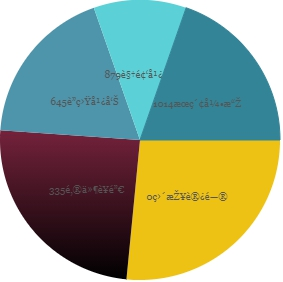
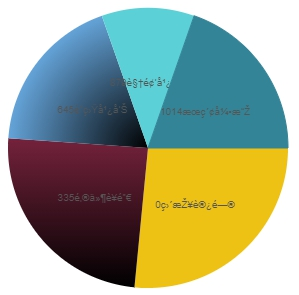
[document] update basic pie

diff --git a/README.md b/README.md
@@ -250,7 +250,7 @@
 			data: [
                 {value: 335, name: '直接访问'},
                 {value: 310, name: '邮件营销', linearGradient:[{position:0,color:"#000000"},{position:1,color:"#d9406f"}]},
-                {value: 234, name: '联盟广告'},
+                {value: 234, name: '联盟广告', radialGradient:[{position:0,color:"#000000"},{position:1,color:"#64A3D8"}]},
                 {value: 135, name: '视频广告'},
                 {value: 248, name: '搜索引擎'}
             ],
